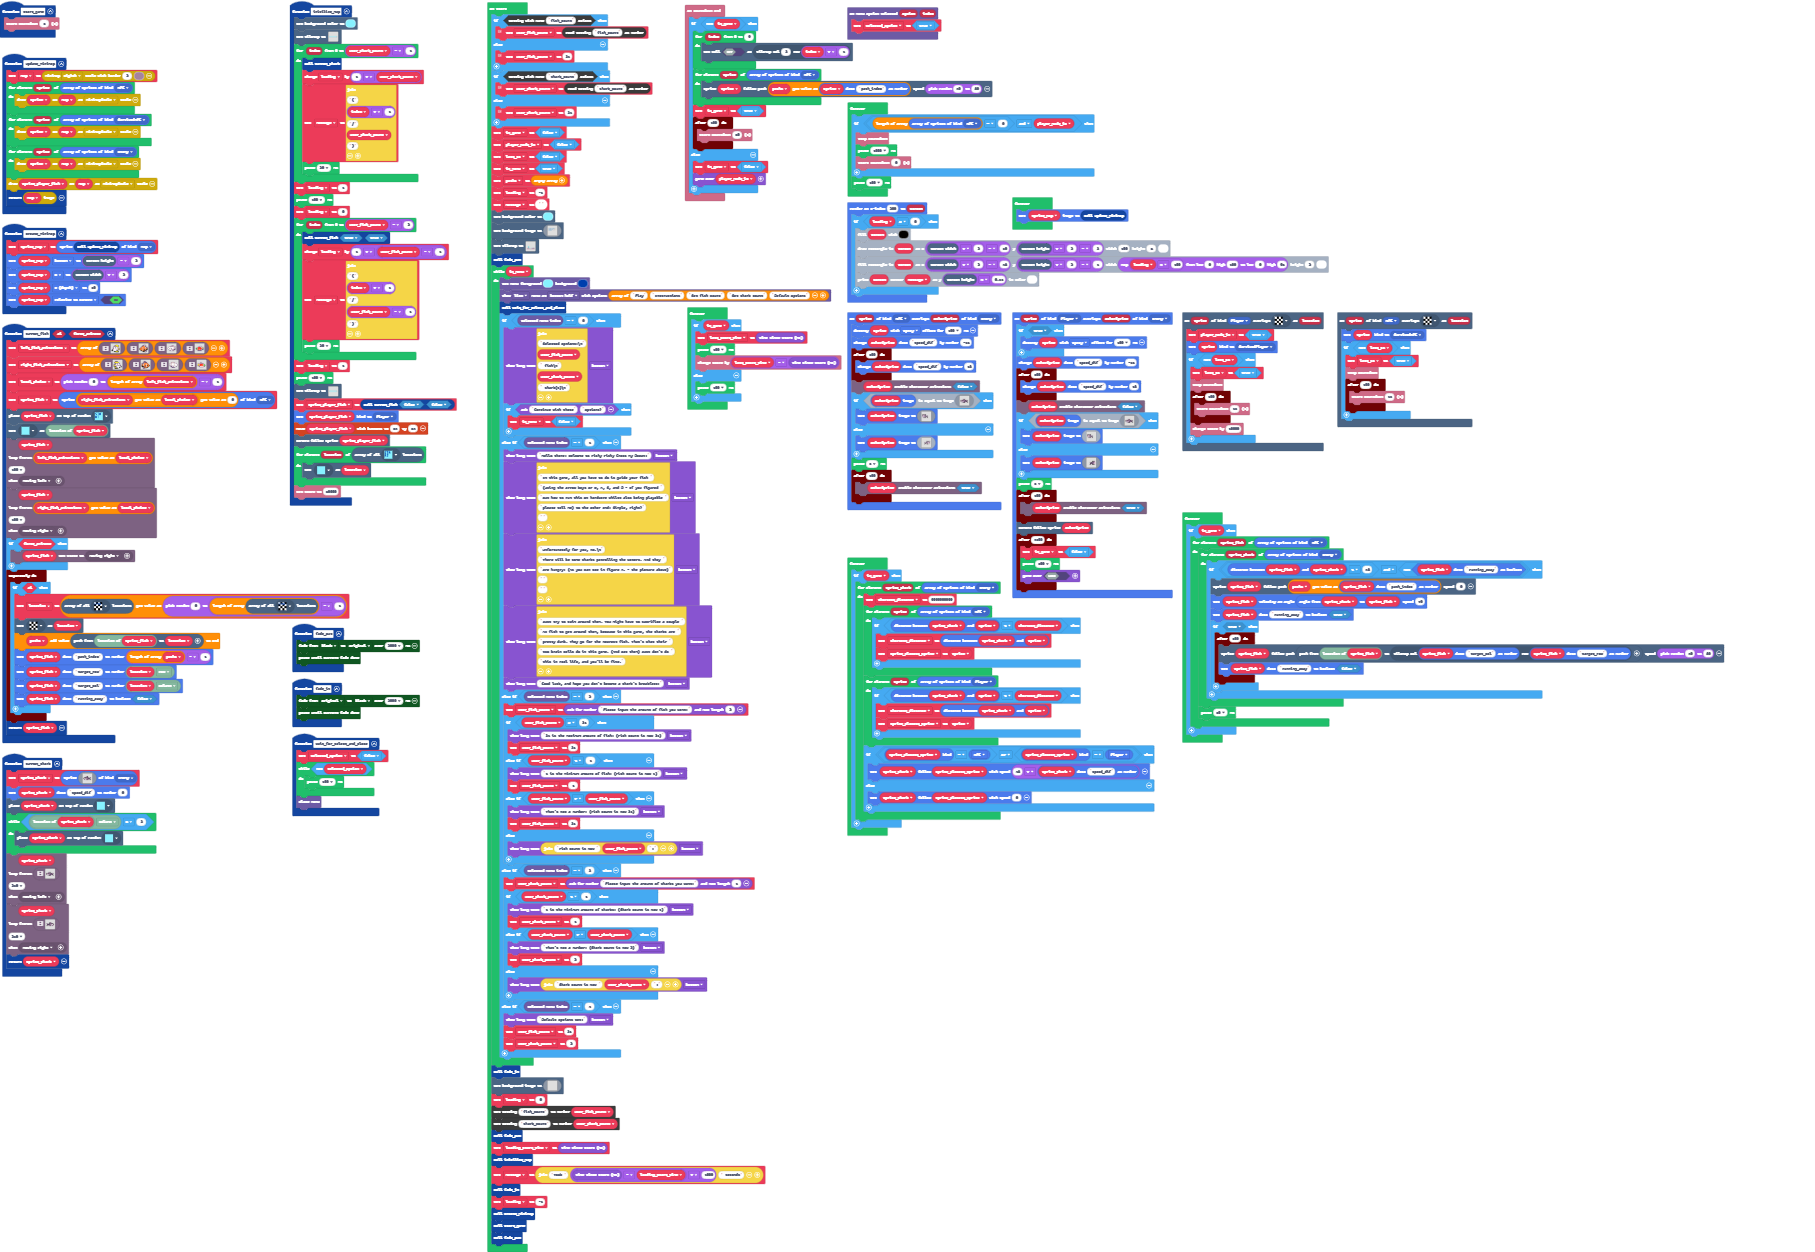
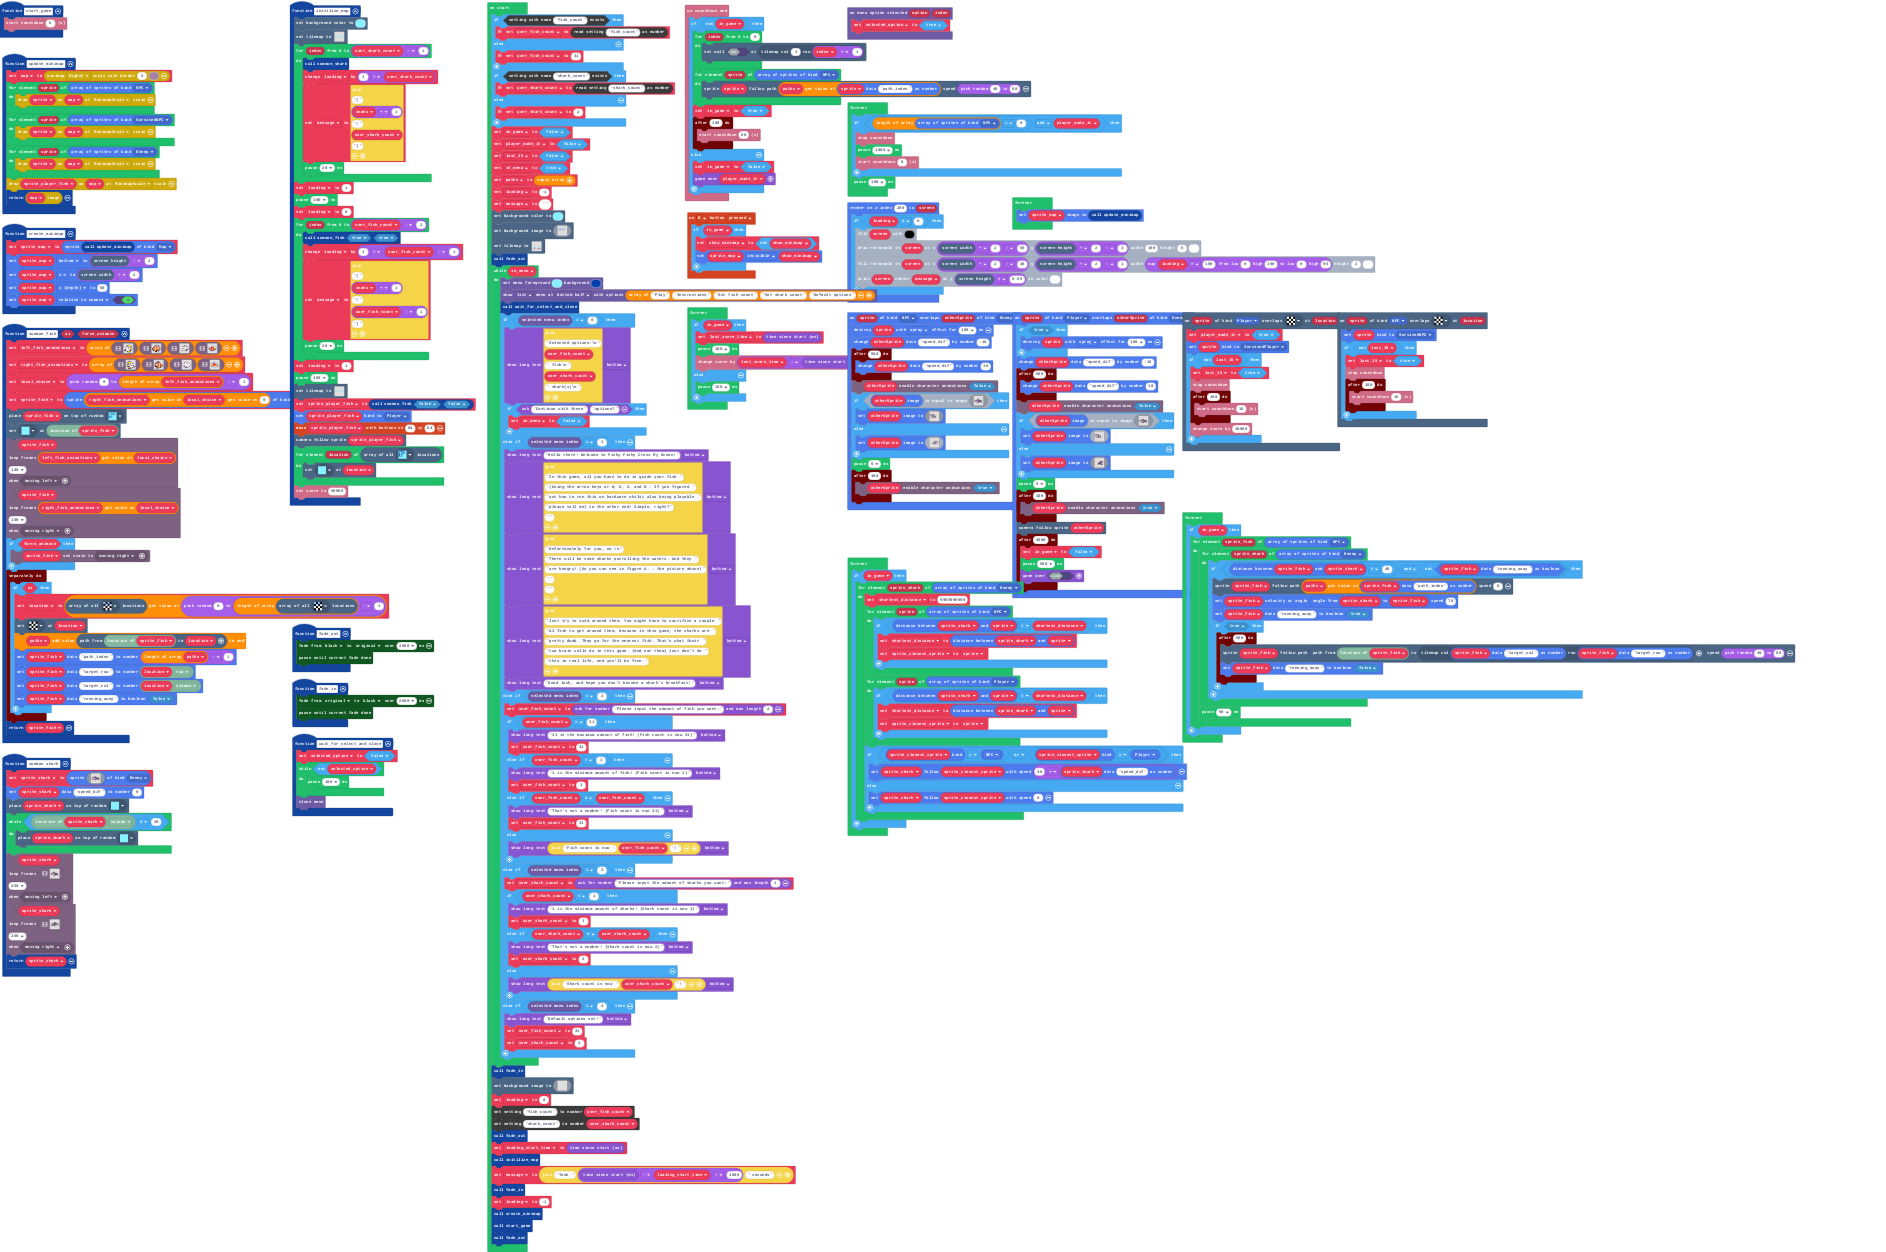
Toggle the mini map with B!

Changed region(s): [[0.0, 0.0, 0.8948, 1.0], [0.9256, 0.4984, 0.9565, 0.5296], [0.4011, 0.6853, 0.432, 0.7165]]

diff --git a/main.ts b/main.ts
@@ -4,6 +4,12 @@ namespace SpriteKind {
     export const SurvivedPlayer = SpriteKind.create()
     export const SurvivedNPC = SpriteKind.create()
 }
+controller.B.onEvent(ControllerButtonEvent.Pressed, function () {
+    if (in_game) {
+        show_minimap = !(show_minimap)
+        sprite_map.setFlag(SpriteFlag.Invisible, show_minimap)
+    }
+})
 function summon_fish (ai: boolean, force_animate: boolean) {
     left_fish_animations = [[img`
         . . . . . . . . . . . . . . . . 
@@ -399,7 +405,7 @@ function summon_shark () {
         `, SpriteKind.Enemy)
     sprites.setDataNumber(sprite_shark, "speed_dif", 0)
     tiles.placeOnRandomTile(sprite_shark, myTiles.tile15)
-    while (tiles.locationXY(tiles.locationOfSprite(sprite_shark), tiles.XY.column) <= 3) {
+    while (tiles.locationXY(tiles.locationOfSprite(sprite_shark), tiles.XY.column) <= 20) {
         tiles.placeOnRandomTile(sprite_shark, myTiles.tile15)
     }
     character.loopFrames(
@@ -539,7 +545,6 @@ sprites.onOverlap(SpriteKind.Player, SpriteKind.Enemy, function (sprite, otherSp
 let sprite_closest_sprite: Sprite = null
 let shortest_distance = 0
 let last_score_time = 0
-let sprite_map: Sprite = null
 let sprite_shark: Sprite = null
 let map: minimap.Minimap = null
 let sprite_player_fish: Sprite = null
@@ -549,6 +554,8 @@ let sprite_fish: Sprite = null
 let local_choice = 0
 let right_fish_animations: Image[][] = []
 let left_fish_animations: Image[][] = []
+let sprite_map: Sprite = null
+let show_minimap = false
 let message = ""
 let loading = 0
 let paths: tiles.Location[][] = []
@@ -569,7 +576,7 @@ if (blockSettings.exists("shark_count")) {
     user_shark_count = blockSettings.readNumber("shark_count")
 } else {
     // max is 31
-    user_shark_count = 31
+    user_shark_count = 2
 }
 in_game = false
 player_made_it = false
@@ -609,35 +616,35 @@ scene.setBackgroundImage(img`
     ......6888888888..6888888888..6888888888..6888888888..6888888888.....6888........6888..6888..6888...............................................ffffff..........
     ......6888888888..6888888888..6888888888..6888888888..6888888888.....688866...6666888..6888..6888...............................................................
     ......6888........6888...888..6888..6888..6888........6888...........6888888..6888888..6888..6888...............................................................
-    ......6888........6888...888..6888..6888..6888........6888...........6888888..6888888..6888..6888...............................................................
-    ......6888........688866.888..6888..6888..688866666...688866666......6888888666888888..6888666888...............................................................
-    ......6888........6888888.....6888..6888..6888888888..6888888888.....6888..6888..6888..6888888888...............................................................
-    ......6888........6888888.....6888..6888..6888888888..6888888888.....6888..6888..6888..6888888888...............................................................
-    ......6888........688888866...6888..6888...888888888...888888888.....6888..6888..6888...888888888.................................cccc..........................
-    ......6888........6888..6888..6888..6888.........888.........888.....6888........6888.....6888...................................cddddcc........................
-    ......6888........6888..6888..6888..6888.........888.........888.....6888........6888.....6888...................................cddcccccc......................
-    ......688866666...6888..6888..6888666888..6666666888..6666666888.....6888........6888.....6888..............fffcc...fffffff....cccccd4444ccc....................
-    ......6888888888..6888..6888..6888888888..6888888888..6888888888.....6888........6888.....6888..............fbbbbcffbbbbbbbf...f4cc144444144c...................
-    ......6888888888..6888..6888..6888888888..6888888888..6888888888.....6888........6888.....6888...............fbffbbbbb111bbf...f4f1d444414444c..................
-    .......888888888...888..6888...888888888...888888888...888888888......888.........888......888...............ffbbbbff11111bf...f4f144444144444f.................
-    ...........................................................................................................ffcbbbbbff1cccc1f...f44144fc4144f44f.................
-    ..........................................................................................................fcccbcbcbb1c1c1cff...fff144f4c144444f.................
-    ......666666666...666666666...666666666...666666666...6666.....666...666..........................ccccc..fcccbcbcbbb1333ccf......fd44f4414444f..................
-    ......6888888888..6888888888..6888888888..6888888888..6888.....6888..6888..8...888...888..........cbbddcfccccbcbcbbb1c333c........fd44cc4144f...................
-    ......6888888888..6888888888..6888888888..6888888888..6888.....6888..6888..8.....8.....8...........ccbddcccccbbbbbbb1c333c........fc444444df....................
-    ......6888888888..6888888888..6888888888..6888888888..688866...6888..6888..8...888.....8............ccbbccccccbbbbb11c333c.......cbdc4444ff.....................
-    ......6888..6888..6888........6888........6888..6888..6888888..6888..6888..8...8.......8............fccbfccccccbbbb11c133cc......cdddffff.......................
-    ......6888..6888..6888........6888........6888..6888..6888888..6888..6888..8.8.888.8...8............fccfcbbcccccbbbc11c31cc.......ccc...........................
-    ......6888..6888..6888........688866666...6888666888..6888888666888..6888..........................fcbbf.cdddddfbbbc111111c.....................................
-    ......6888..6888..6888........6888888888..6888888888..6888..6888888..6888..........................fbbf...cdddfbbdbf1111cc......................................
-    ......6888..6888..6888........6888888888..6888888888..6888..6888888..6888.........................fbbf.....ccfbbdbfffccc........................................
-    ......6888..6888..6888........6888888888..6888888888..6888..6888888...888.........................fff........fffff..............................................
+    ......6888........6888...888..6888..6888..6888........6888...........6888888..6888888..6888..6888...................................cccc........................
+    ......6888........688866.888..6888..6888..688866666...688866666......6888888666888888..6888666888..................................cddddcc......................
+    ......6888........6888888.....6888..6888..6888888888..6888888888.....6888..6888..6888..6888888888..................................cddcccccc....................
+    ......6888........6888888.....6888..6888..6888888888..6888888888.....6888..6888..6888..6888888888.............fffcc...fffffff....cccccd4444ccc..................
+    ......6888........688888866...6888..6888...888888888...888888888.....6888..6888..6888...888888888.............fbbbbcffbbbbbbbf...f4cc144444144c.................
+    ......6888........6888..6888..6888..6888.........888.........888.....6888........6888.....6888.................fbffbbbbb111bbf...f4f1d444414444c................
+    ......6888........6888..6888..6888..6888.........888.........888.....6888........6888.....6888.................ffbbbbff11111bf...f4f144444144444f...............
+    ......688866666...6888..6888..6888666888..6666666888..6666666888.....6888........6888.....6888...............ffcbbbbbff1cccc1f...f44144fc4144f44f...............
+    ......6888888888..6888..6888..6888888888..6888888888..6888888888.....6888........6888.....6888..............fcccbcbcbb1c1c1cff...fff144f4c144444f...............
+    ......6888888888..6888..6888..6888888888..6888888888..6888888888.....6888........6888.....6888......ccccc..fcccbcbcbbb1333ccf......fd44f4414444f................
+    .......888888888...888..6888...888888888...888888888...888888888......888.........888......888......cbbddcfccccbcbcbbb1c333c........fd44cc4144f.................
+    .....................................................................................................ccbddcccccbbbbbbb1c333c........fc444444df..................
+    ......................................................................................................ccbbccccccbbbbb11c333c.......cbdc4444ff...................
+    ......666666666...666666666...666666666...666666666...6666.....666...666..............................fccbfccccccbbbb11c133cc......cdddffff.....................
+    ......6888888888..6888888888..6888888888..6888888888..6888.....6888..6888..8...888...888..............fccfcbbcccccbbbc11c31cc.......ccc.........................
+    ......6888888888..6888888888..6888888888..6888888888..6888.....6888..6888..8.....8...8.8.............fcbbf.cdddddfbbbc111111c...................................
+    ......6888888888..6888888888..6888888888..6888888888..688866...6888..6888..8...888...888.............fbbf...cdddfbbdbf1111cc....................................
+    ......6888..6888..6888........6888........6888..6888..6888888..6888..6888..8...8.....8.8............fbbf.....ccfbbdbfffccc......................................
+    ......6888..6888..6888........6888........6888..6888..6888888..6888..6888..8.8.888.8.888............fff........fffff............................................
+    ......6888..6888..6888........688866666...6888666888..6888888666888..6888.......................................................................................
+    ......6888..6888..6888........6888888888..6888888888..6888..6888888..6888.......................................................................................
+    ......6888..6888..6888........6888888888..6888888888..6888..6888888..6888.......................................................................................
+    ......6888..6888..6888........6888888888..6888888888..6888..6888888...888.......................................................................................
     ......6888..6888..6888........6888........6888..6888..6888.....6888.............................................................................................
-    ......6888..6888..6888........6888........6888..6888..6888.....6888.............................................................................................
-    ......6888666888..688866666...688866666...6888..6888..6888.....6888..666........................................................................................
-    ......6888888888..6888888888..6888888888..6888..6888..6888.....6888..6888.......................................................................................
-    ......6888888888..6888888888..6888888888..6888..6888..6888.....6888..6888.......................................................................................
-    .......888888888...888888888...888888888...888...888...888......888...888.......................................................................................
+    ......6888..6888..6888........6888........6888..6888..6888.....6888........88..8.8...8.8.8..8.888.888.8888.8..8.888.88......888.888.88..8.8.888.8..8.888........
+    ......6888666888..688866666...688866666...6888..6888..6888.....6888..666...8.8.8.8...8.8.88.8.8....8..8....88.8.8...8.8.....8.8.8.8.8.8.8.8..8..88.8.8.8........
+    ......6888888888..6888888888..6888888888..6888..6888..6888.....6888..6888..88..888...8.8.8.88.888..8..8.88.8.88.888.8.8.....888.88..8.8.8.8..8..8.88.8.8........
+    ......6888888888..6888888888..6888888888..6888..6888..6888.....6888..6888..8.8..8....8.8.8..8...8..8..8..8.8..8.8...8.8.....8.8.8.8.8.8.8.8..8..8..8.8.8........
+    .......888888888...888888888...888888888...888...888...888......888...888..88...8....888.8..8.888.888.8888.8..8.888.88..888.8.8.8.8.88..888.888.8..8.888........
     ................................................................................................................................................................
     ................................................................................................................................................................
     ................................................................................................................................................................
